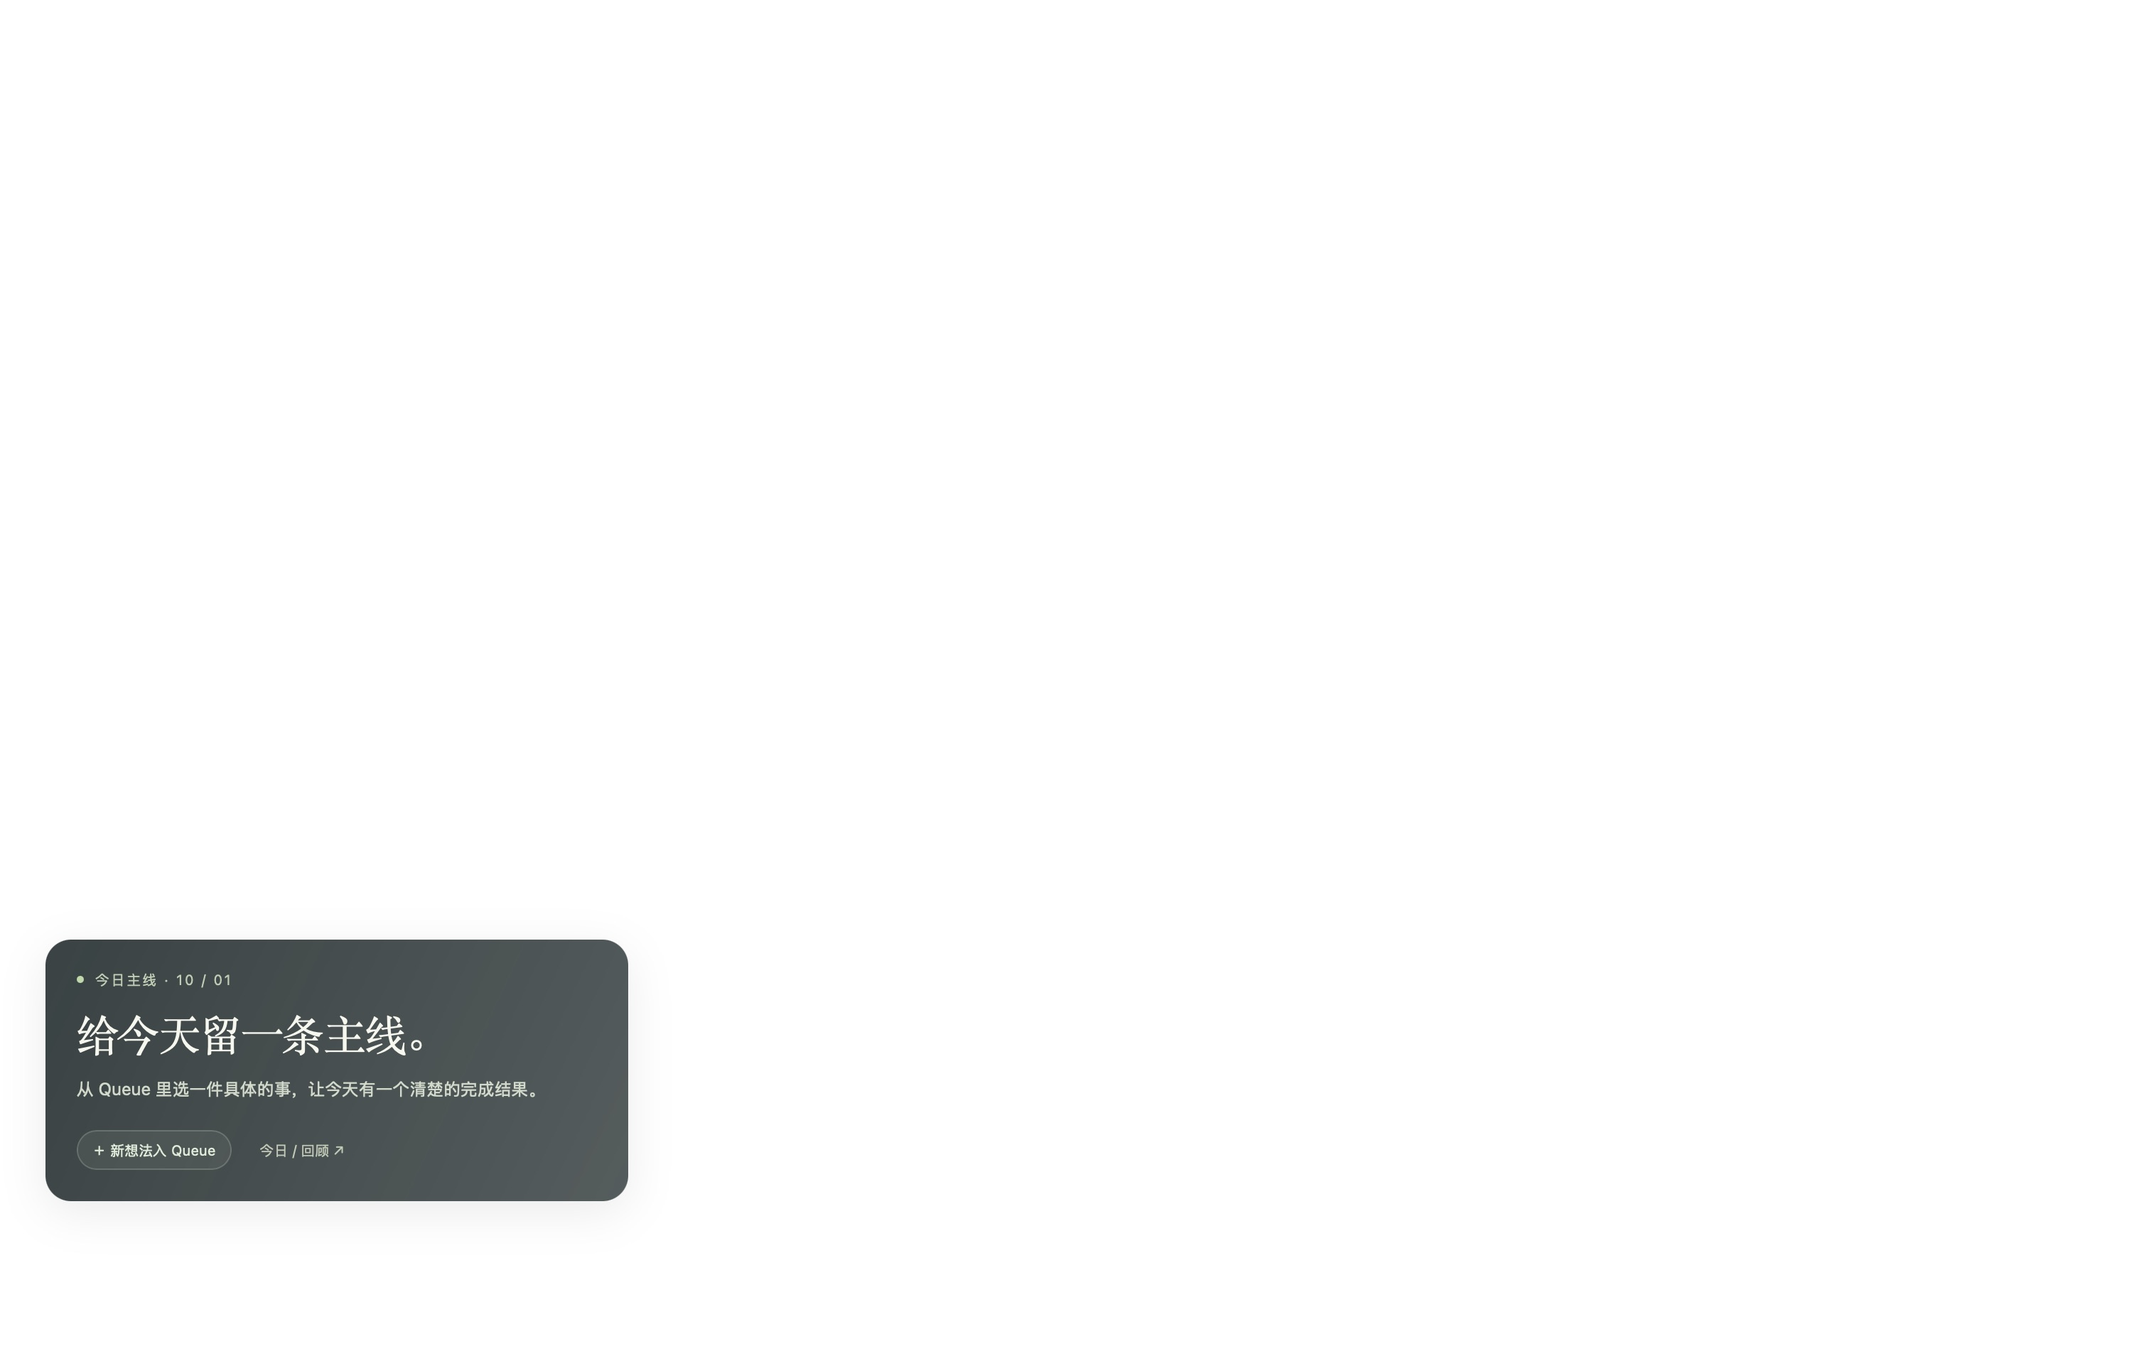
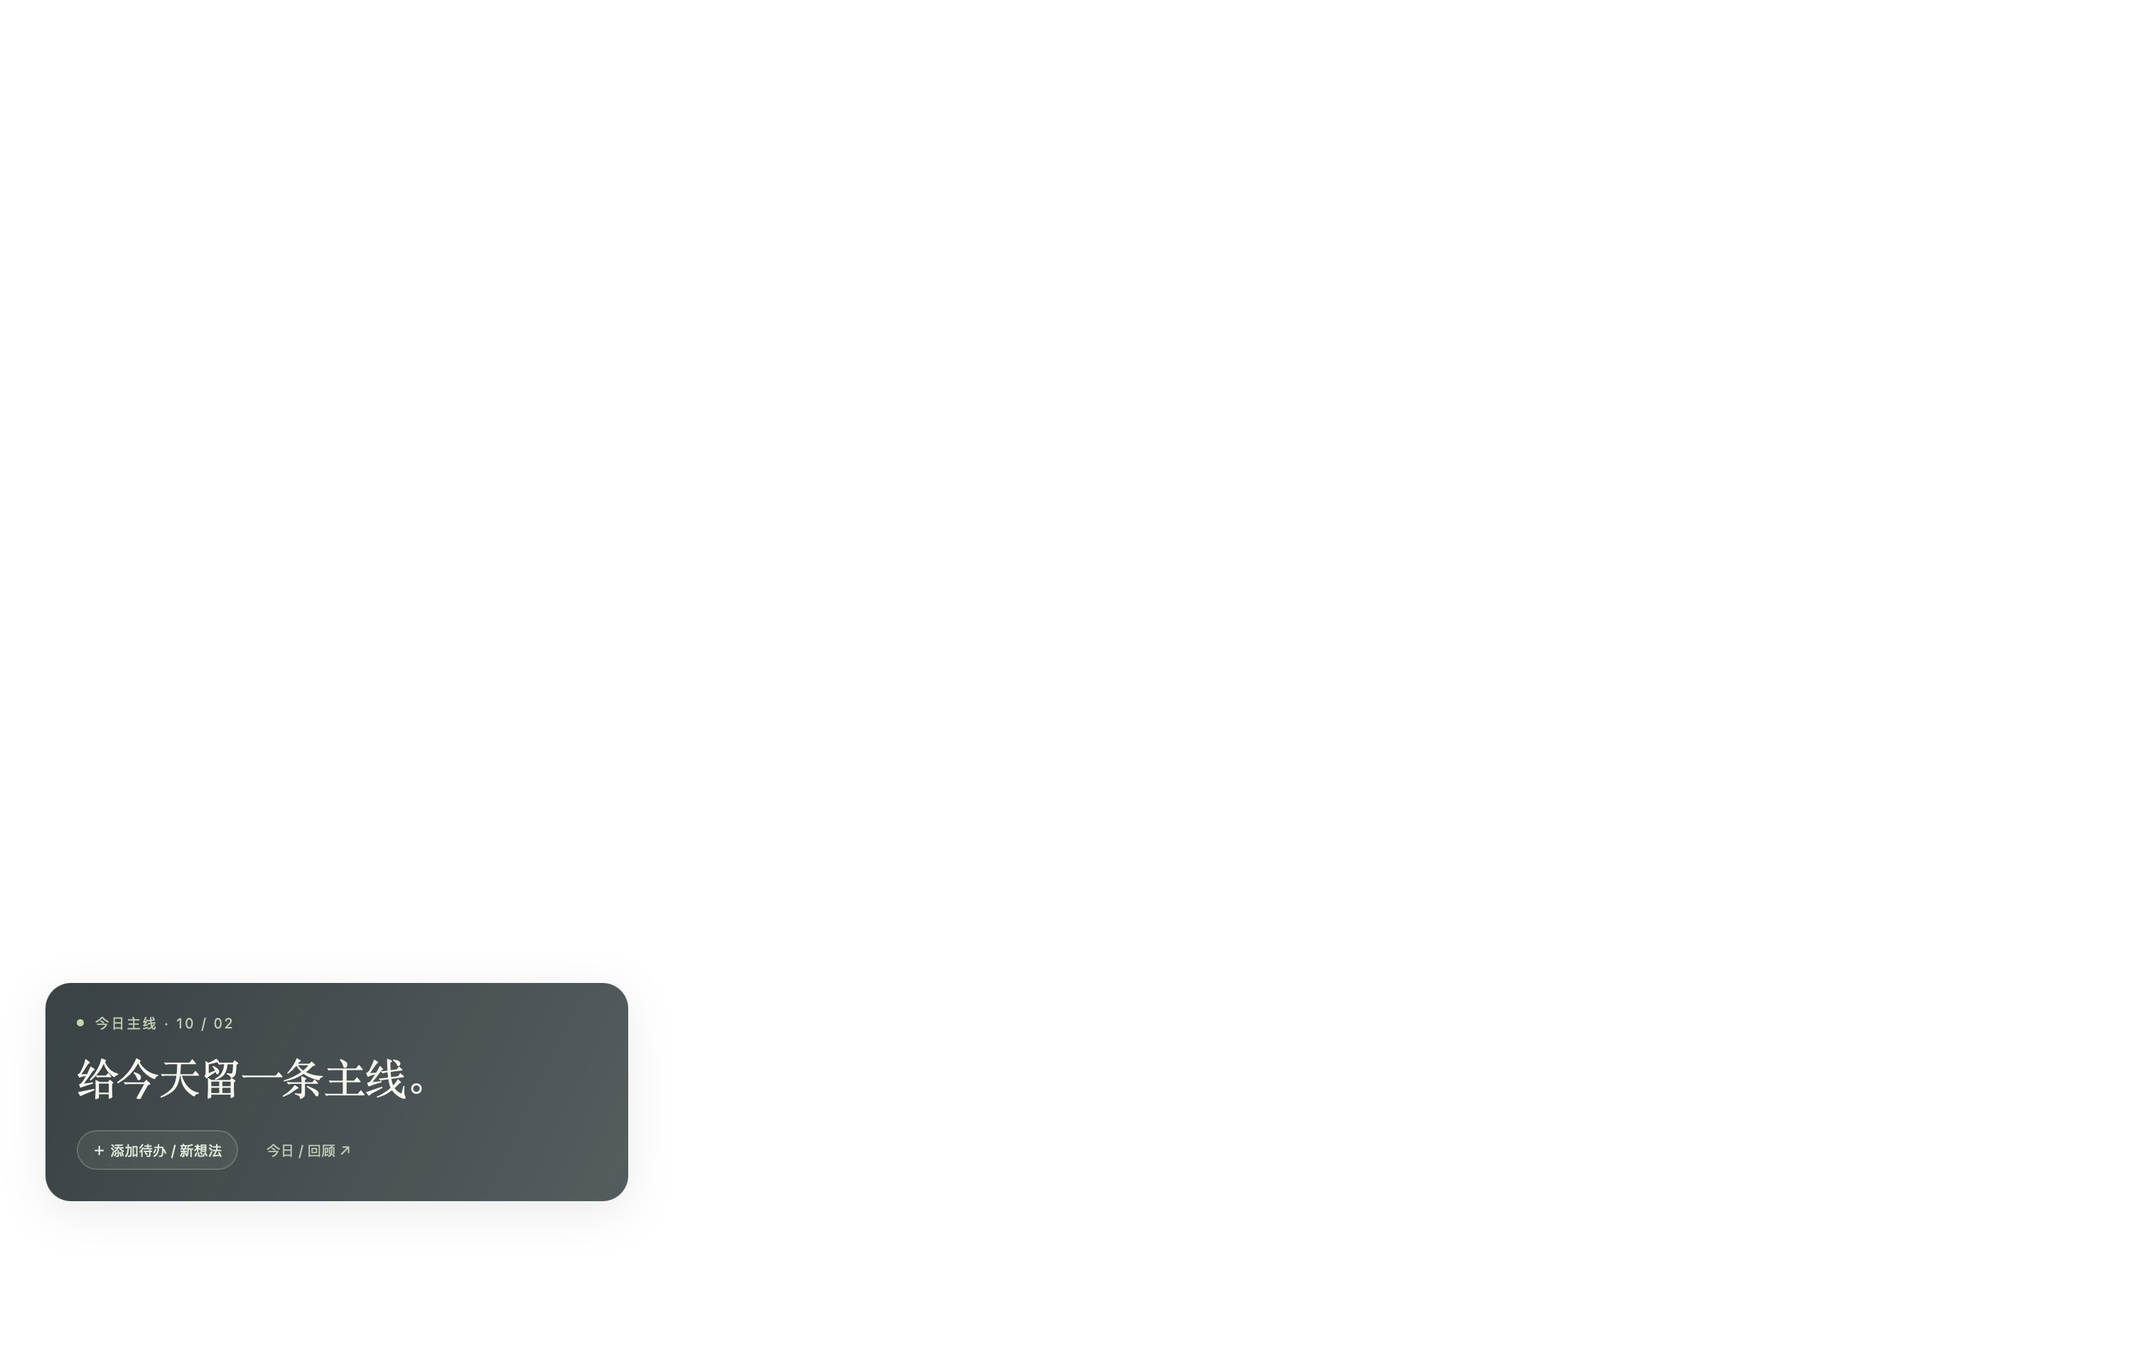
Simplify desktop focus text and rename capture entry

Changed region(s): [[0.0, 0.6839, 0.3108, 0.8082], [0.0622, 0.8393, 0.1554, 0.8704]]

diff --git a/dashboard/index.jsx b/dashboard/index.jsx
@@ -19,7 +19,6 @@ export const className = `
   .eyebrow { display:flex; align-items:center; gap:8px; color:#bdcfb4; font-size:10px; letter-spacing:.12em; }
   .signal { width:5px; height:5px; border-radius:50%; background:#bad9a7; }
   h1 { font-family:"Iowan Old Style","Songti SC",Georgia,serif; font-size:30px; font-weight:500; line-height:1.25; letter-spacing:-.035em; margin:13px 0 10px; overflow-wrap:anywhere; display:-webkit-box; -webkit-line-clamp:3; -webkit-box-orient:vertical; overflow:hidden; }
-  .criterion { font-size:12px; color:#d0dacb; line-height:1.7; margin:0; overflow-wrap:anywhere; display:-webkit-box; -webkit-line-clamp:2; -webkit-box-orient:vertical; overflow:hidden; }
   .completed { color:#c6e4b4; }
   .secondary { display:flex; gap:10px; align-items:baseline; margin-top:15px; padding-top:12px; border-top:1px solid rgba(232,244,221,.14); font-size:12px; color:#d0dacb; }
   .secondary span { flex:0 0 auto; font-size:10px; color:#9fae96; }
@@ -50,13 +49,6 @@ export const render = ({ output = '', error = null }) => {
       <h1 className={primary?.completedAt ? 'completed' : ''} title={primary?.title || ''}>
         {primary ? primary.title : '给今天留一条主线。'}
       </h1>
-      <p className="criterion" title={primary?.definition || ''}>
-        {primary
-          ? primary.completedAt
-            ? '这件事已经完成了。今天的进展，值得留下。'
-            : `做到这一步：${primary.definition}`
-          : '从 Queue 里选一件具体的事，让今天有一个清楚的完成结果。'}
-      </p>
       {secondary && (
         <div className="secondary">
           <span>{secondary.completedAt ? '副项 ✓' : '可选副项'}</span>
@@ -65,7 +57,7 @@ export const render = ({ output = '', error = null }) => {
       )}
       <div className="entries">
         <button className="entry" onClick={() => open('?capture=1#queue')}>
-          ＋ 新想法入 Queue
+          ＋ 添加待办 / 新想法
         </button>
         <button className="entry quiet-entry" onClick={() => open('#today')}>
           今日 / 回顾 ↗

diff --git a/docs/status.md b/docs/status.md
@@ -9,19 +9,20 @@ The implementation and design study are committed and pushed; the PR is open for
 
 Concept 10 One Thing has been expanded into a functioning daily-focus widget and local dashboard at Ryan's request.
 The desktop shows one concrete main task, one optional quieter secondary task, and Queue/dashboard entry buttons.
+The primary title has no description underneath, and the capture entry reads **添加待办 / 新想法**, following Ryan's 2026-10-02 review feedback.
 The dashboard handles capture, deliberate daily selection, completion, and historical review.
 
-| Area                        | Status                       | Evidence or limit                                                                                                                                                                                              |
-| --------------------------- | ---------------------------- | -------------------------------------------------------------------------------------------------------------------------------------------------------------------------------------------------------------- |
-| Desktop widget              | Implemented, engine checked  | Actual installed Übersicht 1.6 compiler and React/Emotion renderer load only `dashboard/index.jsx`, with no widget compilation errors.                                                                         |
-| Today and Queue             | Implemented, browser checked | Capture from desktop entry, required criteria, daily roles, completion/undo, search, reorder, archive/restore, and conflict feedback.                                                                          |
-| Daily history               | Implemented                  | Preserved role snapshots, distinct completion states, four-week calendar and metrics, and adjustment records.                                                                                                  |
-| Persistence and API         | Implemented, tested          | Serialized atomic saves, revision conflict protection, deduplication, restart persistence, corrupt-file preservation, and local-only API.                                                                      |
-| Automated checks            | 17 tests passed              | `npm run check` on 2026-10-01; includes regression protection against discovering backend scripts as widgets.                                                                                                  |
-| Sample review               | Available                    | `npm run demo`; clearly labeled disposable records, separate from real data.                                                                                                                                   |
-| Native Übersicht acceptance | Window rendering verified    | The actual foreground WebKit window displays the empty normal state after repairing the local directory preference; second-Space observation, interaction shortcut, click-through, and refresh remain pending. |
-| Agent documentation         | Implemented                  | Shared `AGENTS.md`, `CLAUDE.md` import, documentation routes, status, architecture, and updated design contract.                                                                                               |
-| Ten design concepts         | Retained as review material  | The selected direction is 10; the original gallery remains available for comparison.                                                                                                                           |
+| Area                        | Status                       | Evidence or limit                                                                                                                                                                |
+| --------------------------- | ---------------------------- | -------------------------------------------------------------------------------------------------------------------------------------------------------------------------------- |
+| Desktop widget              | Implemented, engine checked  | Actual installed Übersicht 1.6 compiler and React/Emotion renderer load only `dashboard/index.jsx`, with no widget compilation errors.                                           |
+| Today and Queue             | Implemented, browser checked | Capture from desktop entry, required criteria, daily roles, completion/undo, search, reorder, archive/restore, and conflict feedback.                                            |
+| Daily history               | Implemented                  | Preserved role snapshots, distinct completion states, four-week calendar and metrics, and adjustment records.                                                                    |
+| Persistence and API         | Implemented, tested          | Serialized atomic saves, revision conflict protection, deduplication, restart persistence, corrupt-file preservation, and local-only API.                                        |
+| Automated checks            | 17 tests passed              | `npm run check` on 2026-10-02; includes regression protection against discovering backend scripts as widgets.                                                                    |
+| Sample review               | Available                    | `npm run demo`; clearly labeled disposable records, separate from real data.                                                                                                     |
+| Native Übersicht acceptance | Visible, confirmed by Ryan   | Actual foreground WebKit rendering and the simplified copy are verified; Ryan confirmed seeing the widget. Interaction shortcut, click-through, and task refresh remain pending. |
+| Agent documentation         | Implemented                  | Shared `AGENTS.md`, `CLAUDE.md` import, documentation routes, status, architecture, and updated design contract.                                                                 |
+| Ten design concepts         | Retained as review material  | The selected direction is 10; the original gallery remains available for comparison.                                                                                             |
 
 The old disconnected modular data path has been replaced by one server model consumed by the dashboard and widget.
 Example dates and completion records are confined to the demo and tests; normal usage starts empty.
@@ -31,6 +32,7 @@ Moving non-widget JavaScript under ignored `src/` paths resolved the reproduced 
 
 Review images: [today](previews/today.jpg), [Queue](previews/queue.jpg), [daily history](previews/history.jpg), and [desktop preview](previews/desktop.jpg).
 These show labeled sample records and a simulated desktop, not Ryan's actual progress or an observed native widget.
+The simulated desktop and installed-engine image predate the 2026-10-02 simplification; the native window capture shows the current title-only surface and entry label.
 The separate [installed-engine render](previews/widget-engine.jpg) shows the real empty state through Übersicht's renderer in a browser, rather than the macOS desktop window.
 The separate [native window capture](previews/native-widget.jpg) shows the actual Übersicht foreground WebKit window after its launch configuration was repaired.
 The capture isolates the app window; its white transparent backdrop is not the desktop wallpaper.
@@ -39,9 +41,8 @@ The [review evidence](previews/verification.md) records the browser workflows, d
 ## Needs Ryan
 
 Review the PR's daily-focus workflow and visual direction.
-The native widget is running, but interaction and second-desktop acceptance remain; follow [Desktop check](architecture.md#desktop-check).
-Ryan asked to see it on the second desktop.
-Übersicht's window joins all Spaces; automated global switching did not leave desktop 1, so observation on desktop 2 remains pending.
+Ryan confirmed seeing the native widget on 2026-10-02.
+Interaction, click-through, and task refresh acceptance remain; follow [Desktop check](architecture.md#desktop-check).
 Choose your real daily main task and criterion in the normal dashboard when beginning personal use.
 
 ## Open decisions
@@ -53,7 +54,7 @@ These are not part of the current implementation.
 ## Next steps
 
 1. Ryan reviews the desktop widget in the PR; the labeled demo supports companion workflow review.
-2. Switch to desktop 2 and verify the already-running Übersicht widget against the normal service on port 4317.
+2. Verify the already-visible Übersicht widget's interaction against the normal service on port 4317.
    Record click-through, entry buttons, and ten-second refresh separately from the established native window render.
 3. Address acceptance feedback within the one-primary/one-secondary, quiet-desktop contract.
 4. After acceptance, begin actual daily records through Queue and Today.

diff --git a/docs/design-review.md b/docs/design-review.md
@@ -65,6 +65,7 @@ The broader summaries in 03 and 08 give several categories simultaneous prominen
 Confirmed requirements:
 
 - Show one concrete daily primary task and at most one quieter optional secondary task.
+- Keep the primary task as one direct sentence without a description below it; label the capture entry **添加待办 / 新想法**.
 - Keep the Übersicht desktop widget as the main interface, with the web dashboard as its planning and history companion.
 - Keep all other tasks in a queue or todo list without exposing a full backlog on the desktop.
 - Preserve a small desktop footprint and click-through on the task surface, with explicit interactive Queue and dashboard entry buttons.
@@ -73,13 +74,13 @@ Confirmed requirements:
 
 Implemented adaptation:
 
-- Render one large primary task, one short completion criterion, and an optional quieter second task.
+- Render one large primary title and an optional quieter second task, with no description beneath the primary.
 - Express the primary task as a concrete result achievable today rather than an ongoing project title.
-- Replace the prototype's illustrative percentage bar with an explicit completion criterion or real completion state.
+- Replace the prototype's illustrative percentage bar with real completion state in the eyebrow; completion criteria belong in the companion dashboard.
 - Keep habits, countdowns, backlog counts, and other summary metrics out of the daily-focus surface.
 - Open a focused capture dialog from the desktop Queue entry, with Today, Queue, and daily-history pages behind it.
 - Use muted sage, warm paper, and restrained serif headings in the dashboard, with the primary task visually dominant.
-- Expand the desktop typography with a translucent surface for legibility, bounded title/criterion lines, and two small entry buttons.
+- Expand the desktop typography with a translucent surface for legibility, bounded title lines, and two small entry buttons.
 - Do not silently promote queue items or unfinished tasks into today's main task.
 - Preserve each day's title and completion criterion; unfinished tasks return to Queue the next day while the past day remains unfinished.
 - Keep a completed primary visible for the rest of the day rather than automatically filling another primary slot.

diff --git a/docs/previews/verification.md b/docs/previews/verification.md
@@ -17,7 +17,8 @@ The test suite creates isolated data directories and ephemeral local ports.
 
 The application was exercised through its visible browser controls.
 
-- Desktop **新想法入 Queue** opened the dashboard with a focused capture dialog.
+- Desktop capture opened the dashboard with a focused capture dialog.
+  Its current label is **添加待办 / 新想法**; the original workflow check used **新想法入 Queue**.
 - Capturing a task with a title and criterion saved it into Queue.
 - Selecting a primary opened an explicit criterion confirmation.
 - Selecting a secondary without a criterion stayed in the dialog with required-field validation.
@@ -71,6 +72,9 @@ The installed foreground URL was `/1/foreground`; a separate `/1/background` win
 
 The [upstream window implementation](https://github.com/felixhageloh/uebersicht/blob/master/Uebersicht/UBWindow.m) joins all Spaces.
 Read-only macOS configuration confirmed two desktops and desktop 1 still active after automated global-shortcut attempts.
-The control tool could not inspect Mission Control or switch Spaces, so direct observation on desktop 2 remains pending.
+The control tool could not inspect Mission Control or switch Spaces.
+Ryan subsequently confirmed seeing the native widget on 2026-10-02.
+After his simplification feedback, the live native accessibility tree and updated capture verified that the description was absent and the entry read **添加待办 / 新想法**.
+The primary, completed-primary, and empty states share the same title-only desktop structure; the companion retains completion criteria.
 Interaction shortcut behavior, click-through, desktop polling, and disconnected recovery also remain pending.
 Use the [desktop acceptance checklist](../architecture.md#desktop-check) before marking native acceptance complete.

diff --git a/docs/architecture.md b/docs/architecture.md
@@ -46,7 +46,9 @@ Both displays derive today's plan from the same stored data.
 
 The desktop reminder sits 32 pixels from the left edge and 104 pixels above the bottom.
 Its width is `min(410px, calc(100vw - 64px))`.
-Titles clamp to three lines, the completion criterion to two, and the optional secondary title to two.
+The desktop shows only the primary title, clamped to three lines, and an optional secondary title, clamped to two.
+Task descriptions, completion criteria, and empty/completed explanatory paragraphs stay off this surface; criteria remain in the planning and history companion.
+The capture entry is labeled **添加待办 / 新想法**.
 The translucent sage and charcoal surface extends the small bottom-left typography of concept 10.
 Queue contents, charts, habit streaks, and countdowns stay off the desktop.
 

diff --git a/README.md b/README.md
@@ -4,7 +4,9 @@ A quiet **Übersicht desktop widget** for choosing one concrete daily main task.
 The desktop is the main interface: a small reminder, one optional secondary task, and an entry for putting new ideas into Queue.
 A separate local web dashboard supports planning and daily history.
 
-![Desktop widget preview](docs/previews/desktop.jpg)
+![Current native widget window](docs/previews/native-widget.jpg)
+
+This captures the Übersicht window in isolation; its white backdrop is not the desktop wallpaper.
 
 ## Run the desktop widget
 
